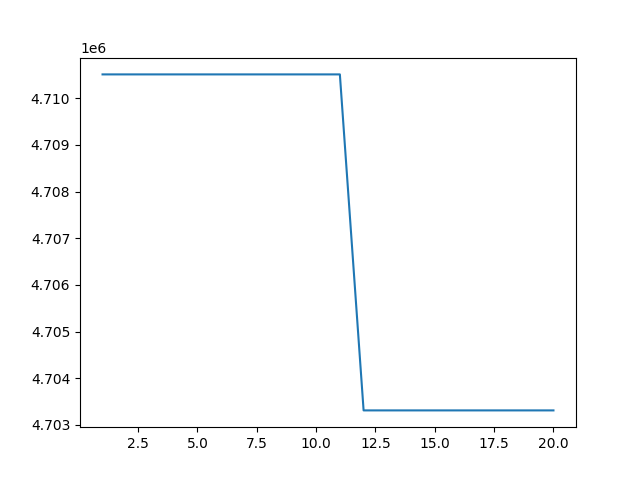
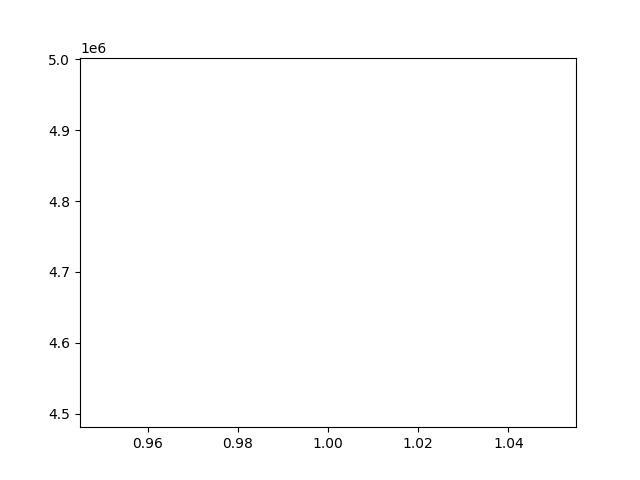
live graph tracking

diff --git a/main.py b/main.py
@@ -99,7 +99,9 @@ class CryptoBot:
             return "NOTREND"
 
     def driver(self):
-        for _ in range(20):
+        x = []
+        i=1
+        while True:
             crypto_data = self.load_crypto_data()
             # print(self.balance)
             trend = self.get_trend()
@@ -110,16 +112,26 @@ class CryptoBot:
             elif trend == "DOWNTREND":
                 # Sell
                 pass
-            time.sleep(10)
+            # x = np.arange(start = 1, stop = i, step = 1) 
+            x.append(i)
+            y = self.closing_pric
 
-    def plot_graph(self):
-        x = np.arange(start = 1, stop = 21, step = 1) 
-        y = self.closing_pric
+            plt.clf()
+            plt.plot(x,y)
+            plt.savefig("plot.png")
+            # plt.show()
+            plt.pause(5)
+            i+= 1
 
-        plt.plot(x,y)
-        plt.savefig("plot.png")
-        # plt.gcf().autofmt_xdate()
-        plt.show()
+            # time.sleep(5)
+
+    # def plot_graph(self):
+    #     x = np.arange(start = 1, stop = 21, step = 1) 
+    #     y = self.closing_pric
+
+    #     plt.plot(x,y)
+    #     plt.savefig("plot.png")
+    #     plt.show()
 
 
 
@@ -128,5 +140,4 @@ if __name__ == "__main__":
     eth = CryptoBot("I-ETH_INR")
     # print(btc.crypto_data)
     btc.driver()
-    btc.plot_graph()
 
